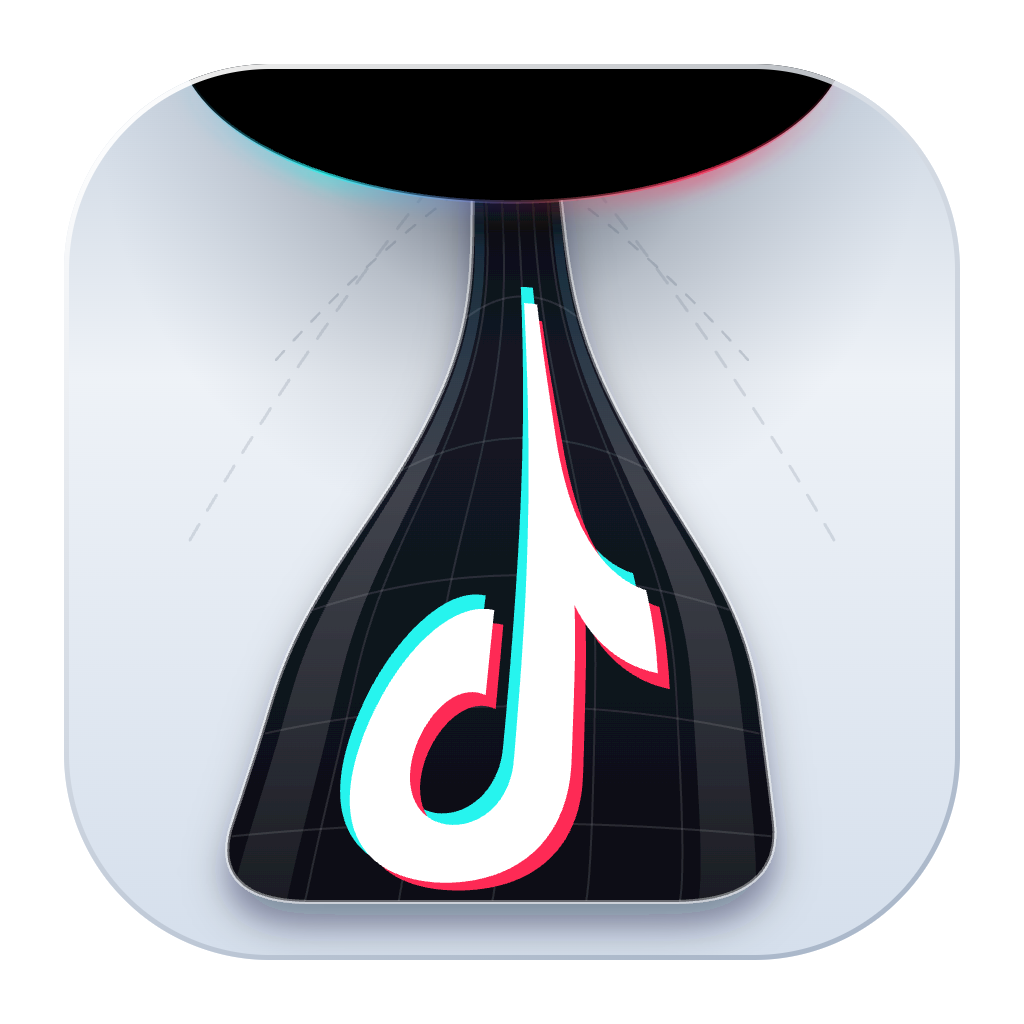
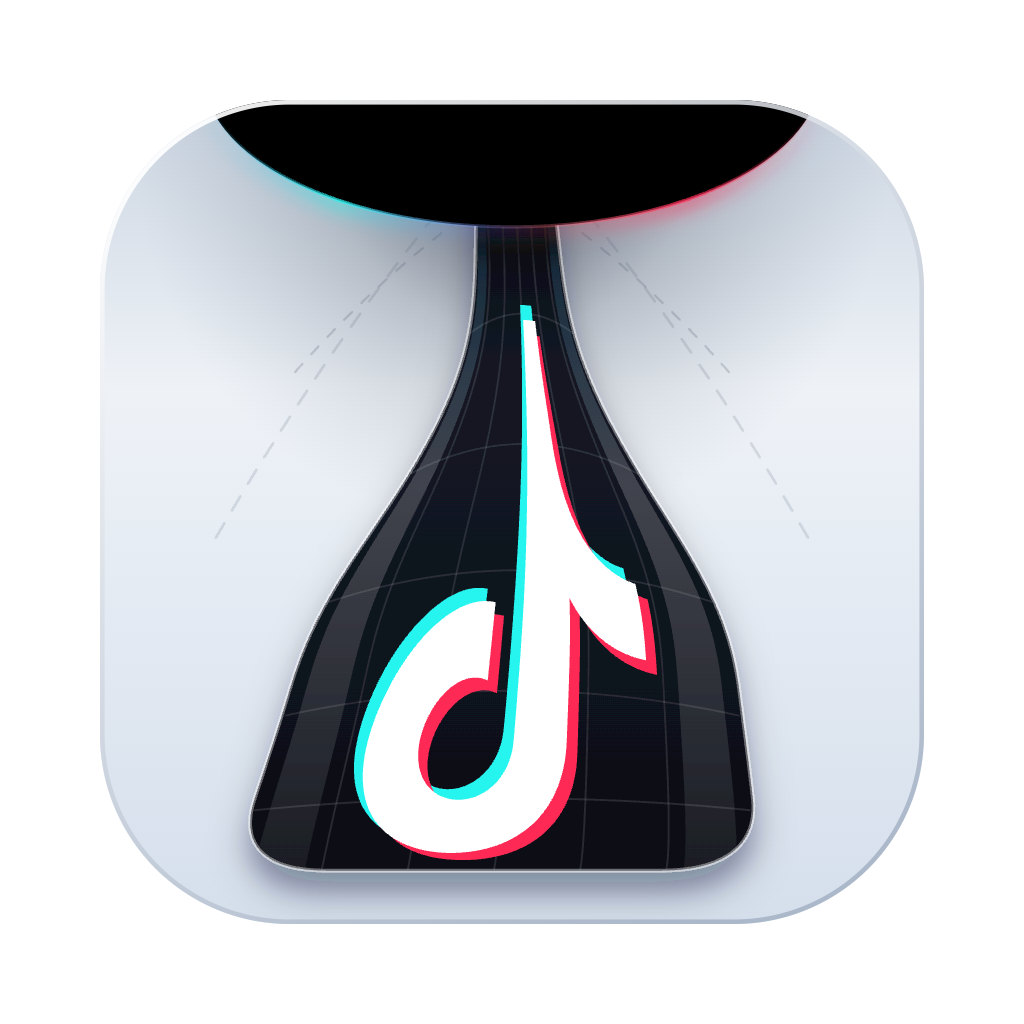
图标缩到苹果标准尺寸（主体 824/1024）；侧栏左上角换成应用图标；版本 0.1.3

Changed region(s): [[0.0625, 0.0625, 0.9375, 0.9375]]

diff --git a/internal/app/ui.go b/internal/app/ui.go
@@ -208,9 +208,7 @@ func (a *app) sidebar(c *ui.Context) {
 	// Below the window buttons, which sit over it.
 	ui.Column(c).Fill().Padding(48, 12, 14, 12).Gap(4).DragWindow().Children(func() {
 		ui.Row(c).Gap(8).AlignItems(ui.Center).Margin(0, 10, 14, 10).Children(func() {
-			ui.Box(c).Size(26, 26).Radius(7).Center().Gradient(ui.Hex("#25f4ee"), ui.Hex("#fe2c55"), 135).Children(func() {
-				ui.Icon(c, iconNote).Size(16, 16).TextColor(white)
-			})
+			ui.Image(c, logo).Size(26, 26)
 			ui.Text(c, "MyDouyin").FontSize(20).FontWeight(800).TextColor(white)
 		})
 		root := a.pages[0]
@@ -1799,7 +1797,6 @@ var (
 	iconComment    = fillIcon(`<path d="M12 3C6.5 3 2 6.8 2 11.5c0 2.6 1.4 4.9 3.6 6.5L5 21.5l4-2c.9.2 1.9.3 3 .3 5.5 0 10-3.8 10-8.5S17.5 3 12 3z"/>`)
 	iconDownload   = strokeIcon(`<path d="M12 3v12"/><path d="m7 10 5 5 5-5"/><path d="M5 21h14"/>`)
 	iconCheck      = strokeIcon(`<path d="M20 6 9 17l-5-5"/>`)
-	iconNote       = fillIcon(`<path d="M16.5 3c.4 2.2 1.9 3.7 4 4v3.2c-1.5 0-2.9-.5-4-1.3v6.3a5.7 5.7 0 1 1-5.7-5.7c.3 0 .6 0 .9.1v3.3a2.5 2.5 0 1 0 1.6 2.3V3z"/>`)
 	iconCompass    = strokeIcon(`<circle cx="12" cy="12" r="9"/><path d="m15.5 8.5-2 5-5 2 2-5z"/>`)
 	iconFollow     = strokeIcon(`<circle cx="9" cy="8" r="4"/><path d="M2 20c0-3.5 3-6 7-6 1.3 0 2.5.3 3.5.8"/><path d="m15 17 2 2 4-4"/>`)
 	iconFriends    = strokeIcon(`<circle cx="9" cy="8" r="4"/><path d="M2 20c0-3.5 3-6 7-6s7 2.5 7 6"/><path d="M16 4.2a4 4 0 0 1 0 7.6"/><path d="M19 14.5c1.8.9 3 2.9 3 5.5"/>`)

diff --git a/internal/app/logo.go b/internal/app/logo.go
@@ -1,0 +1,22 @@
+package app
+
+import (
+	_ "embed"
+
+	"github.com/egoist/mygo/ui"
+)
+
+// logo.png is the app icon's rounded square alone, without the room Apple's
+// grid leaves around it, drawn from resources/icon.svg at 128 pixels.
+//
+//go:embed logo.png
+var logoPNG []byte
+
+// logo is the app's icon, atop the sidebar beside its name.
+var logo = func() *ui.Bitmap {
+	b, err := ui.DecodeBitmap(logoPNG)
+	if err != nil {
+		panic(err)
+	}
+	return b
+}()
